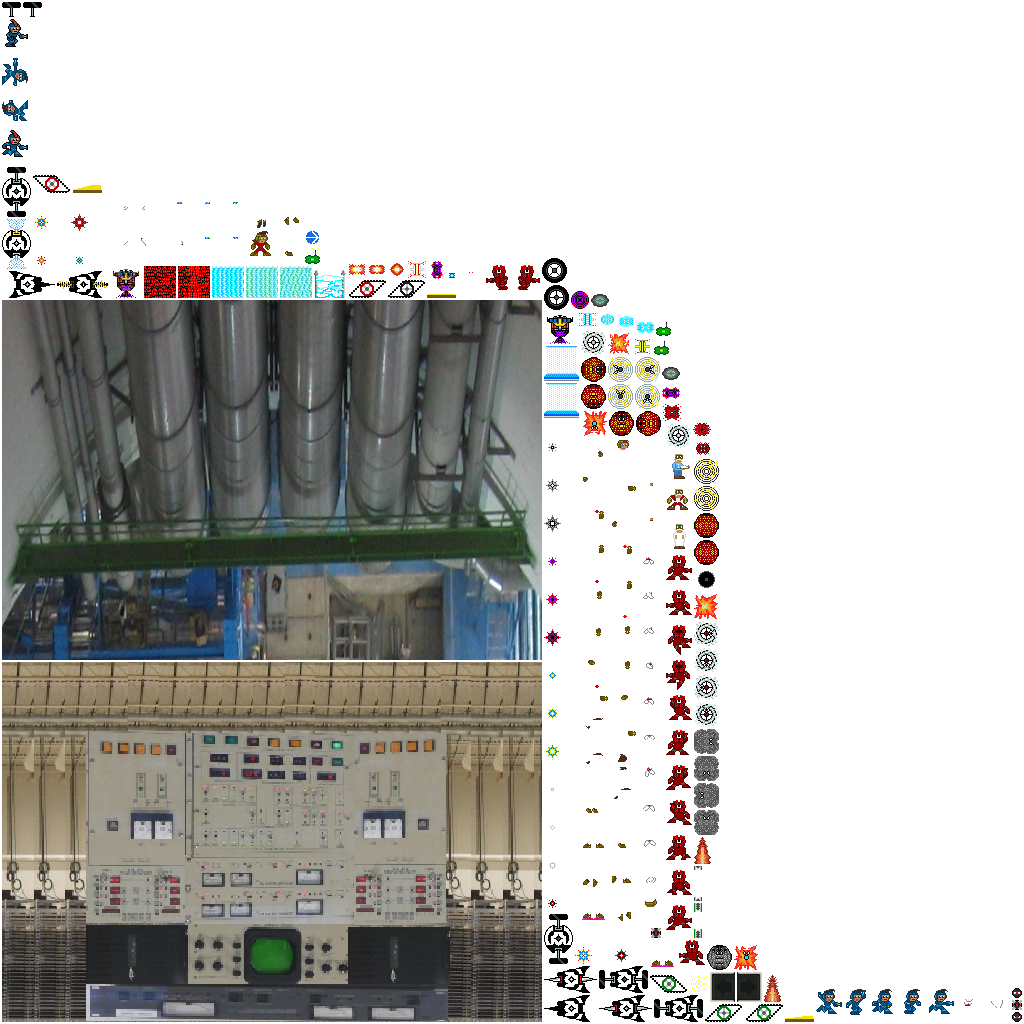
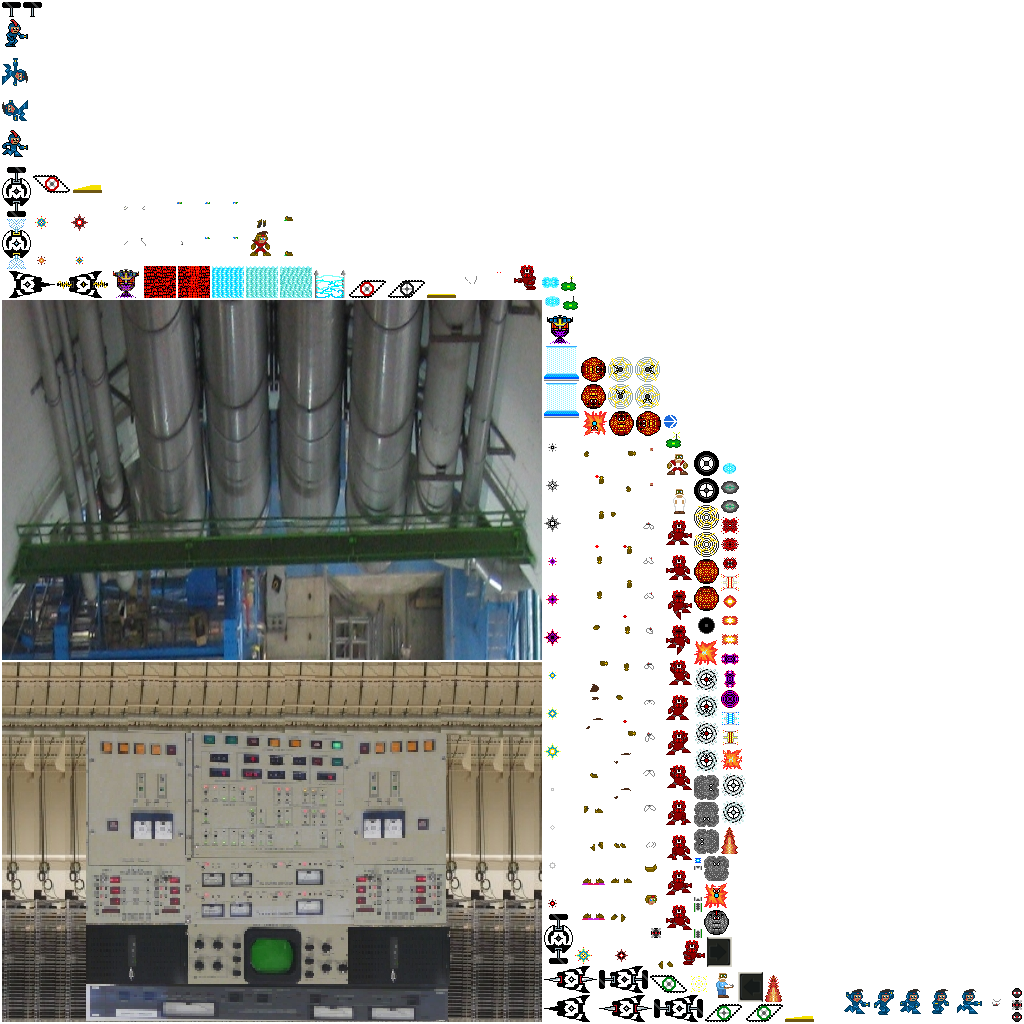
updated dash animation

diff --git a/core/src/com/udacity/gamedev/gigagal/util/AssetManager.java b/core/src/com/udacity/gamedev/gigagal/util/AssetManager.java
@@ -254,8 +254,8 @@ public final class AssetManager implements AssetErrorListener {
             feetStride = new Animation(Constants.SIDESWIPE_FRAME_DURATION, feetStrideFrames, PlayMode.LOOP_PINGPONG);
 
             Array<AtlasRegion> dashFrames = new Array<AtlasRegion>();
-            dashFrames.add(atlas.findRegion(Constants.FEET_STRIDE_3));
-            dashFrames.add(atlas.findRegion(Constants.FEET_DASH));
+            dashFrames.add(atlas.findRegion(Constants.FEET_DASH_2));
+            dashFrames.add(atlas.findRegion(Constants.FEET_DASH_1));
             feetDash = new Animation(Constants.HOVER_FRAME_DURATION, dashFrames, PlayMode.LOOP);
 
             Array<AtlasRegion> hoverFrames = new Array<AtlasRegion>();

diff --git a/core/src/com/udacity/gamedev/gigagal/util/Constants.java b/core/src/com/udacity/gamedev/gigagal/util/Constants.java
@@ -137,7 +137,8 @@ public final class Constants {
     public static final String FEET_RAPPEL = "avatar-feet-rappel";
     public static final String FEET_RECOIL = "avatar-feet-recoil";
     public static final String FEET_CLIMB = "avatar-feet-climb";
-    public static final String FEET_DASH = "avatar-feet-dash";
+    public static final String FEET_DASH_1 = "avatar-feet-dash-1";
+    public static final String FEET_DASH_2 = "avatar-feet-dash-2";
     public static final String FEET_STRIDE_1 = "avatar-feet-stride-1";
     public static final String FEET_STRIDE_2 = "avatar-feet-stride-2";
     public static final String FEET_STRIDE_3 = "avatar-feet-stride-3";
